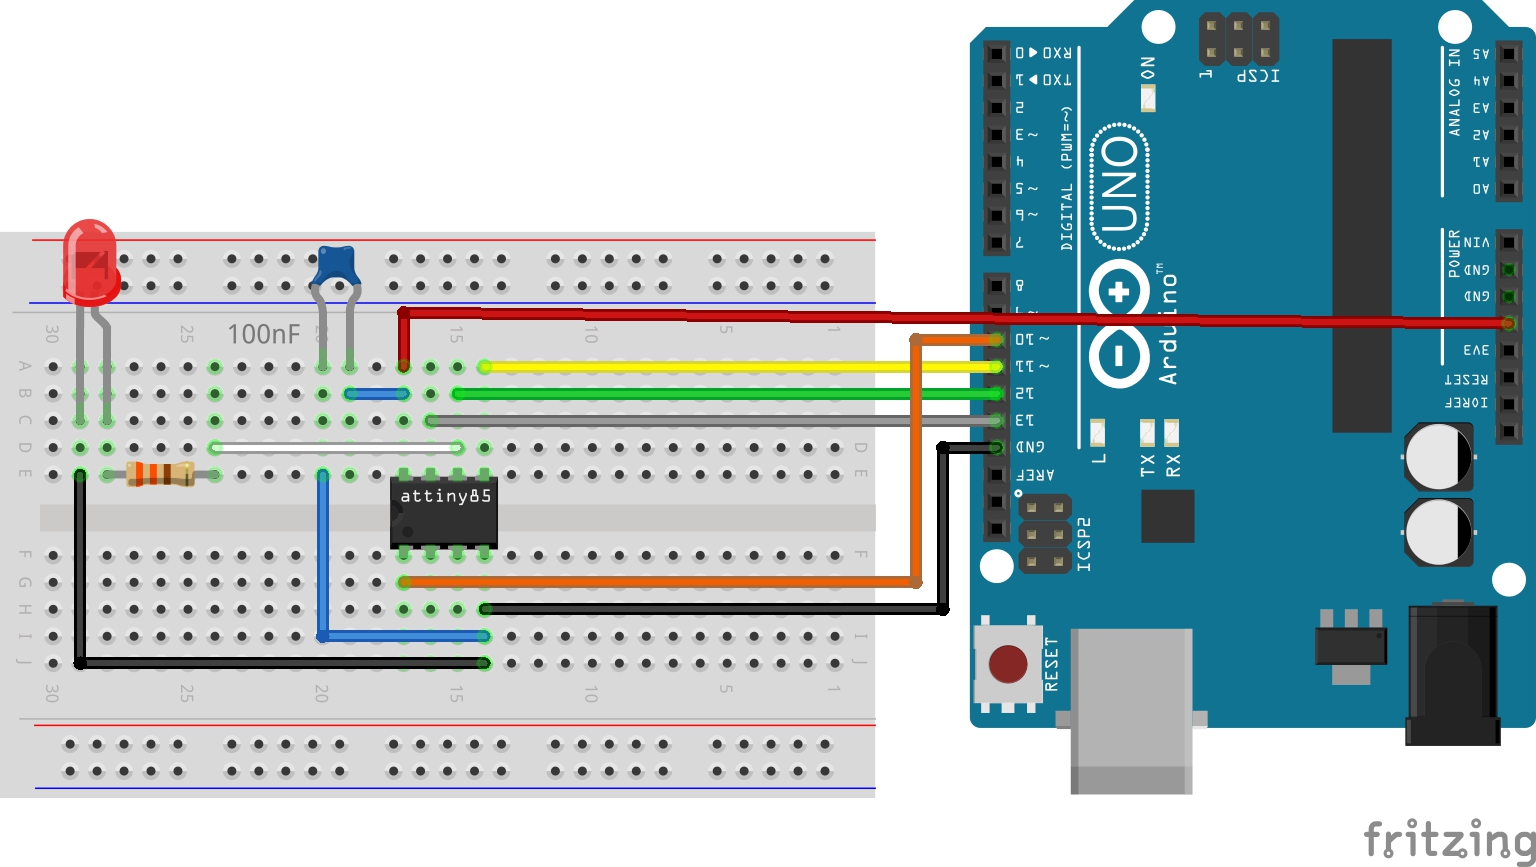
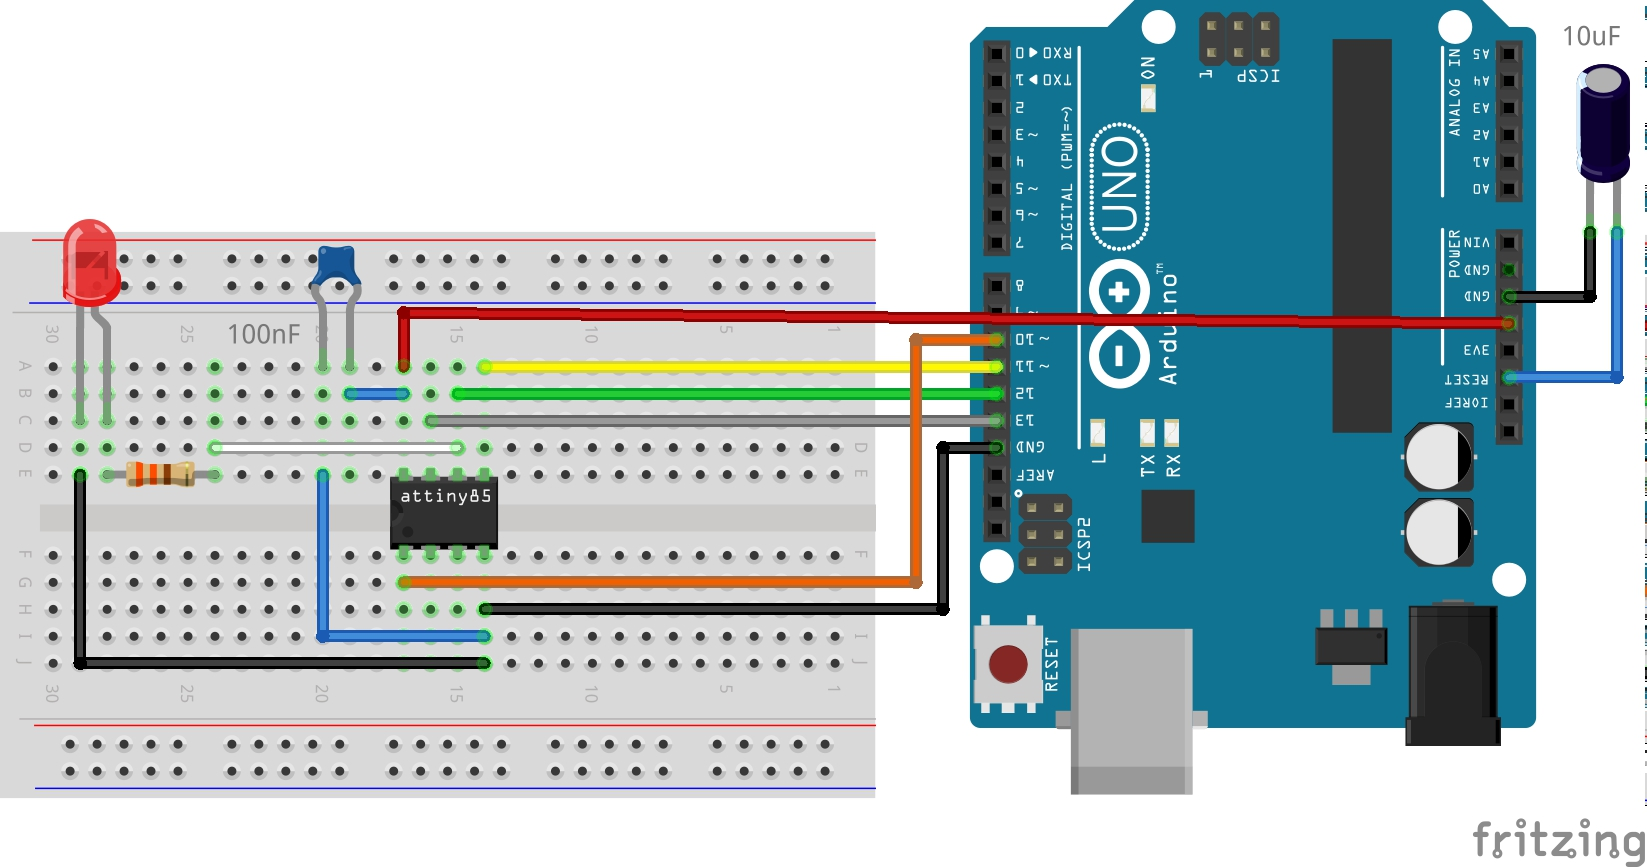
update

diff --git a/ATtiny85_doc/README.md b/ATtiny85_doc/README.md
@@ -10,9 +10,9 @@ Follow those steps for use the Arduino as ISP:
 - Open your ATtiny85 program and select:  
   * "tools" --> "board" --> "ATtiny"  
   * "tools" --> "processor" --> "ATtiny85"  
-  * "tools" --> "programmer" --> "Arduino as ISP"
+  * "tools" --> "programmer" --> "Arduino as ISP(ATtinycore)"
 
-IF it's the first time you use the ATtiny OR you want to change the frequency (Mhz), you must burn the bootloader:  
+**IF** it's the **first time** you use the ATtiny OR you want to **change the frequency** (Mhz) OR **BOD settings**, you must burn the bootloader:  
   - "tools" --> Burn Bootloader  
 
 Now you can upload your sketch.
@@ -20,3 +20,6 @@ Now you can upload your sketch.
 
 ### The 0,1 uF capacitor
 All ATTiny chips (as well as the vast majority of digital integrated circuits) require a 0.1uF ceramic capacitor between Vcc and Gnd for decoupling; this should be located as close to the chip as possible (minimize length of wires to cap). Devices with multiple Vcc pins, or an AVcc pin, should use a cap on those pins too. Do not be fooled by poorly written tutorials or guides that omit these.  
+
+### The 10 uF capacitor
+The capacitor prevents the Arduino board from resetting (which starts the bootloader), thus ensuring that the Arduino IDE talks to the ArduinoISP (not the bootloader) during the upload of sketches.
